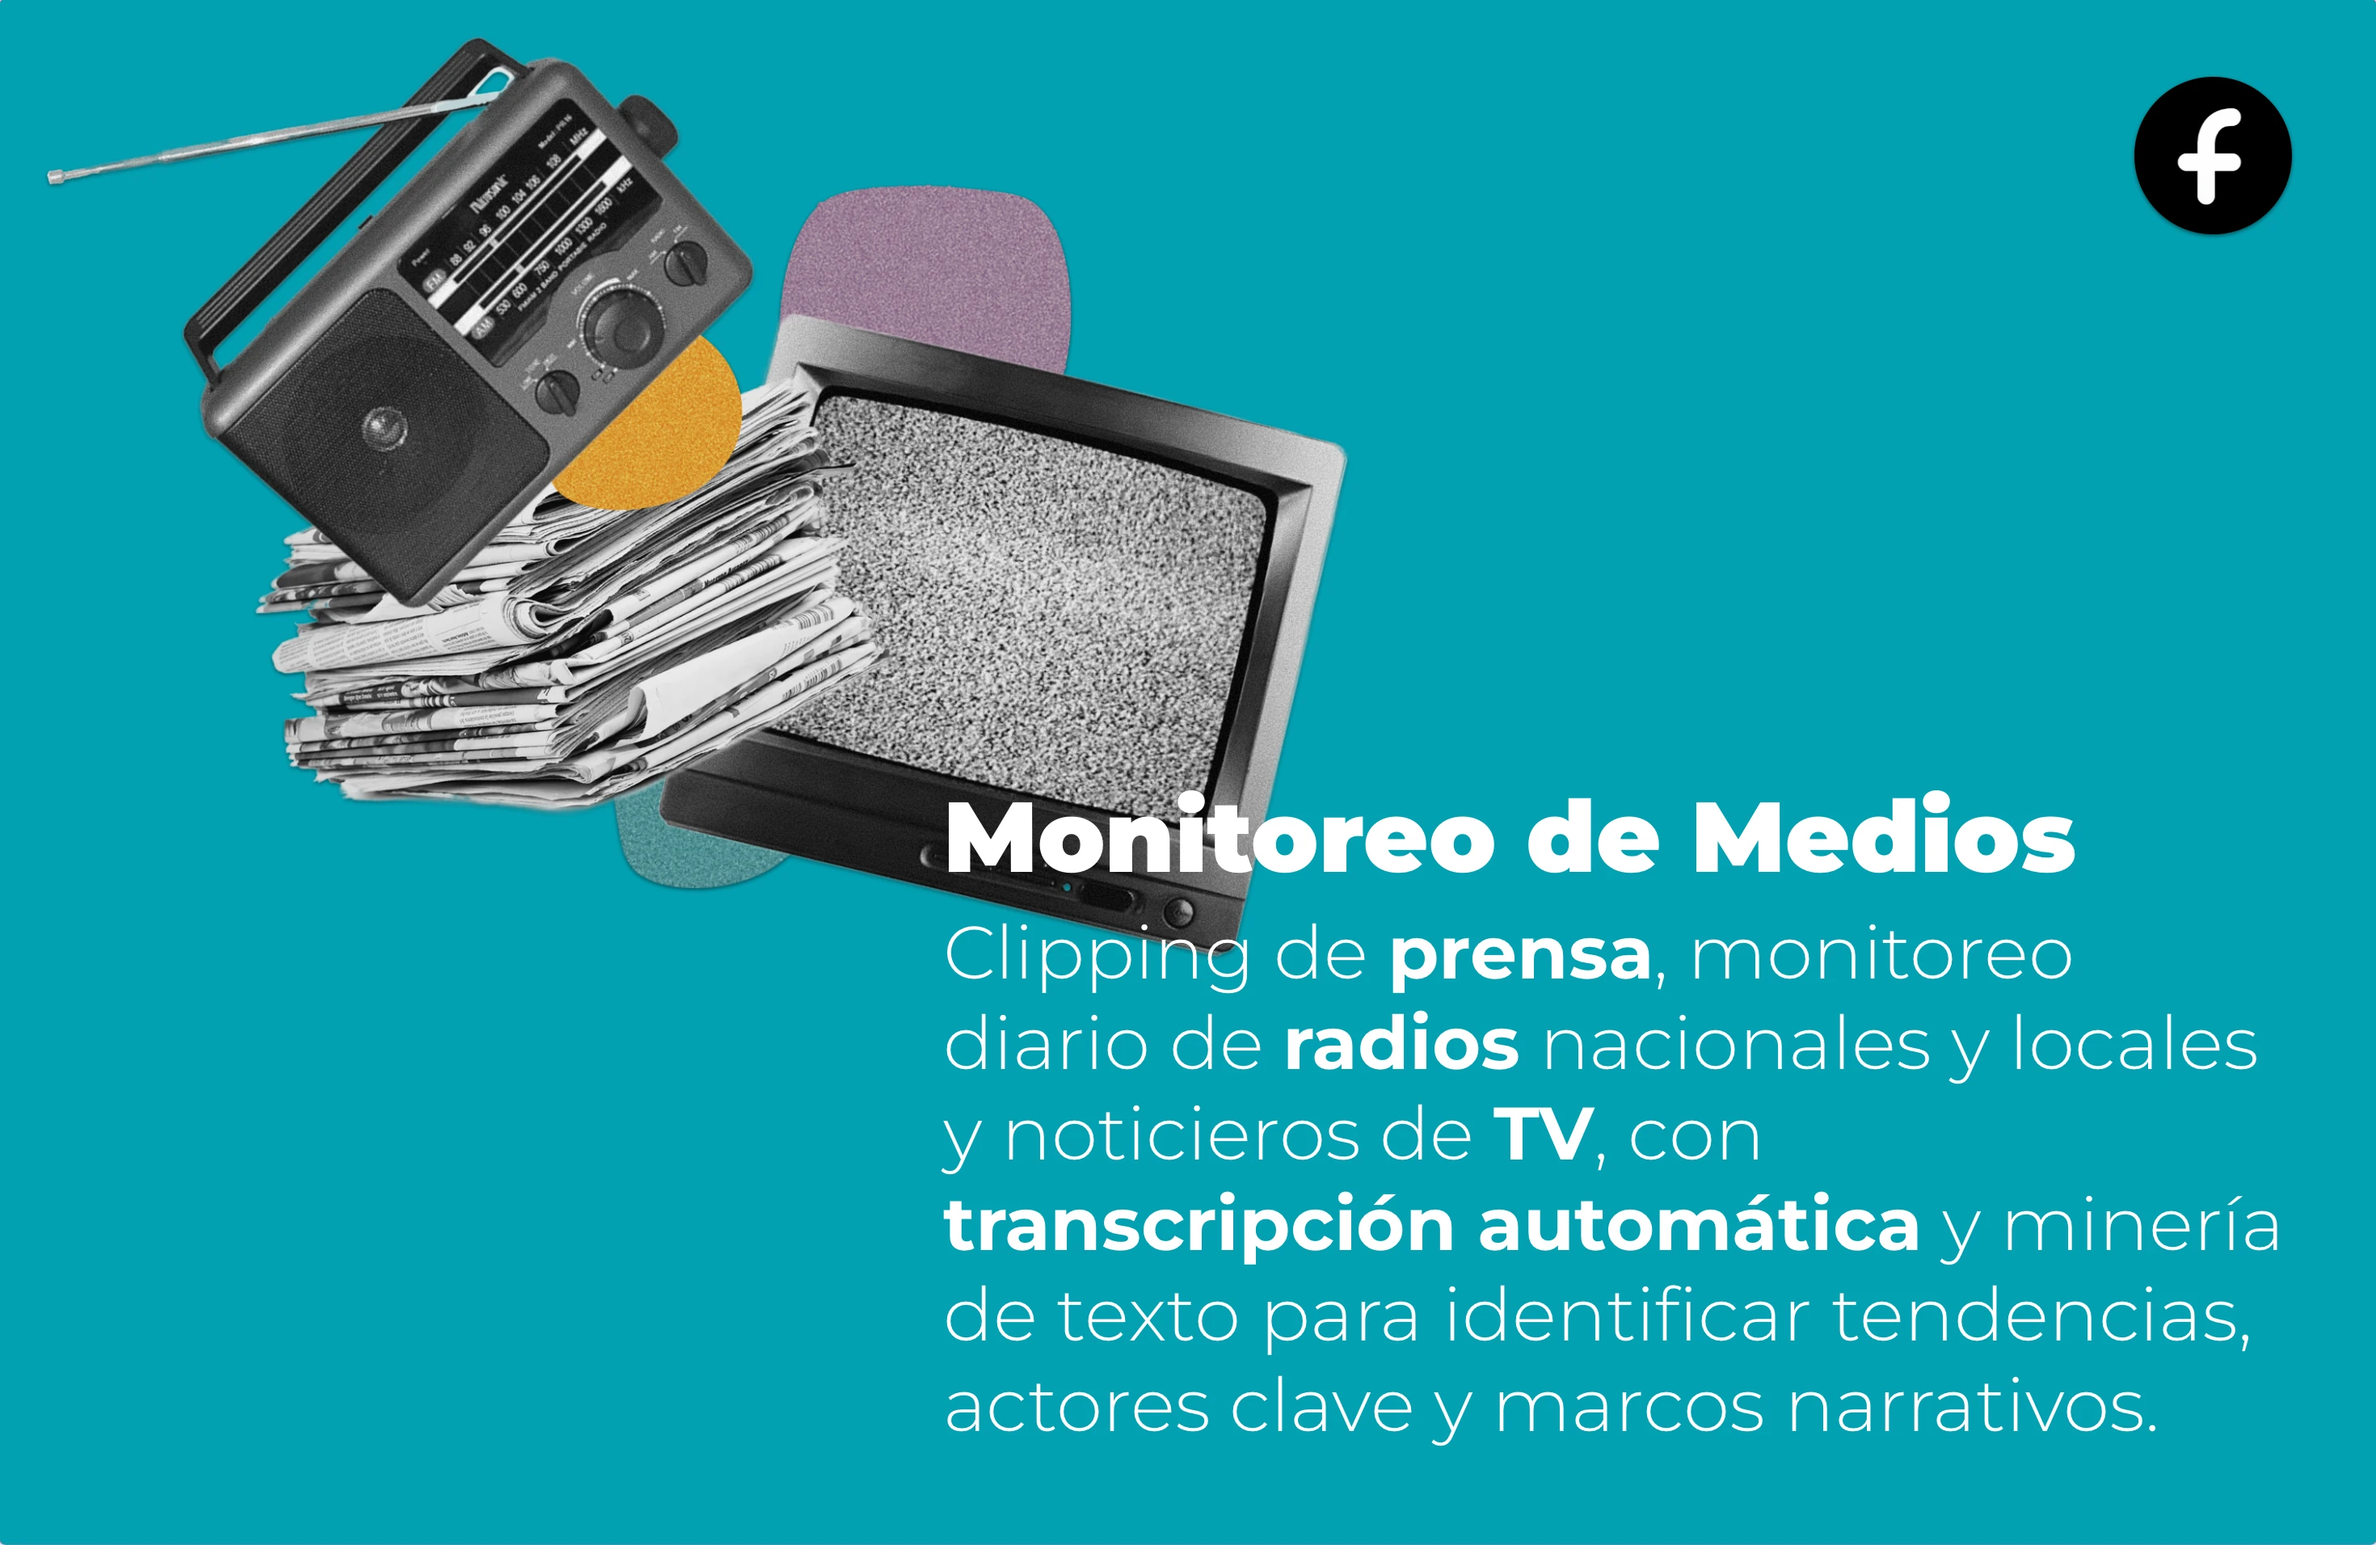
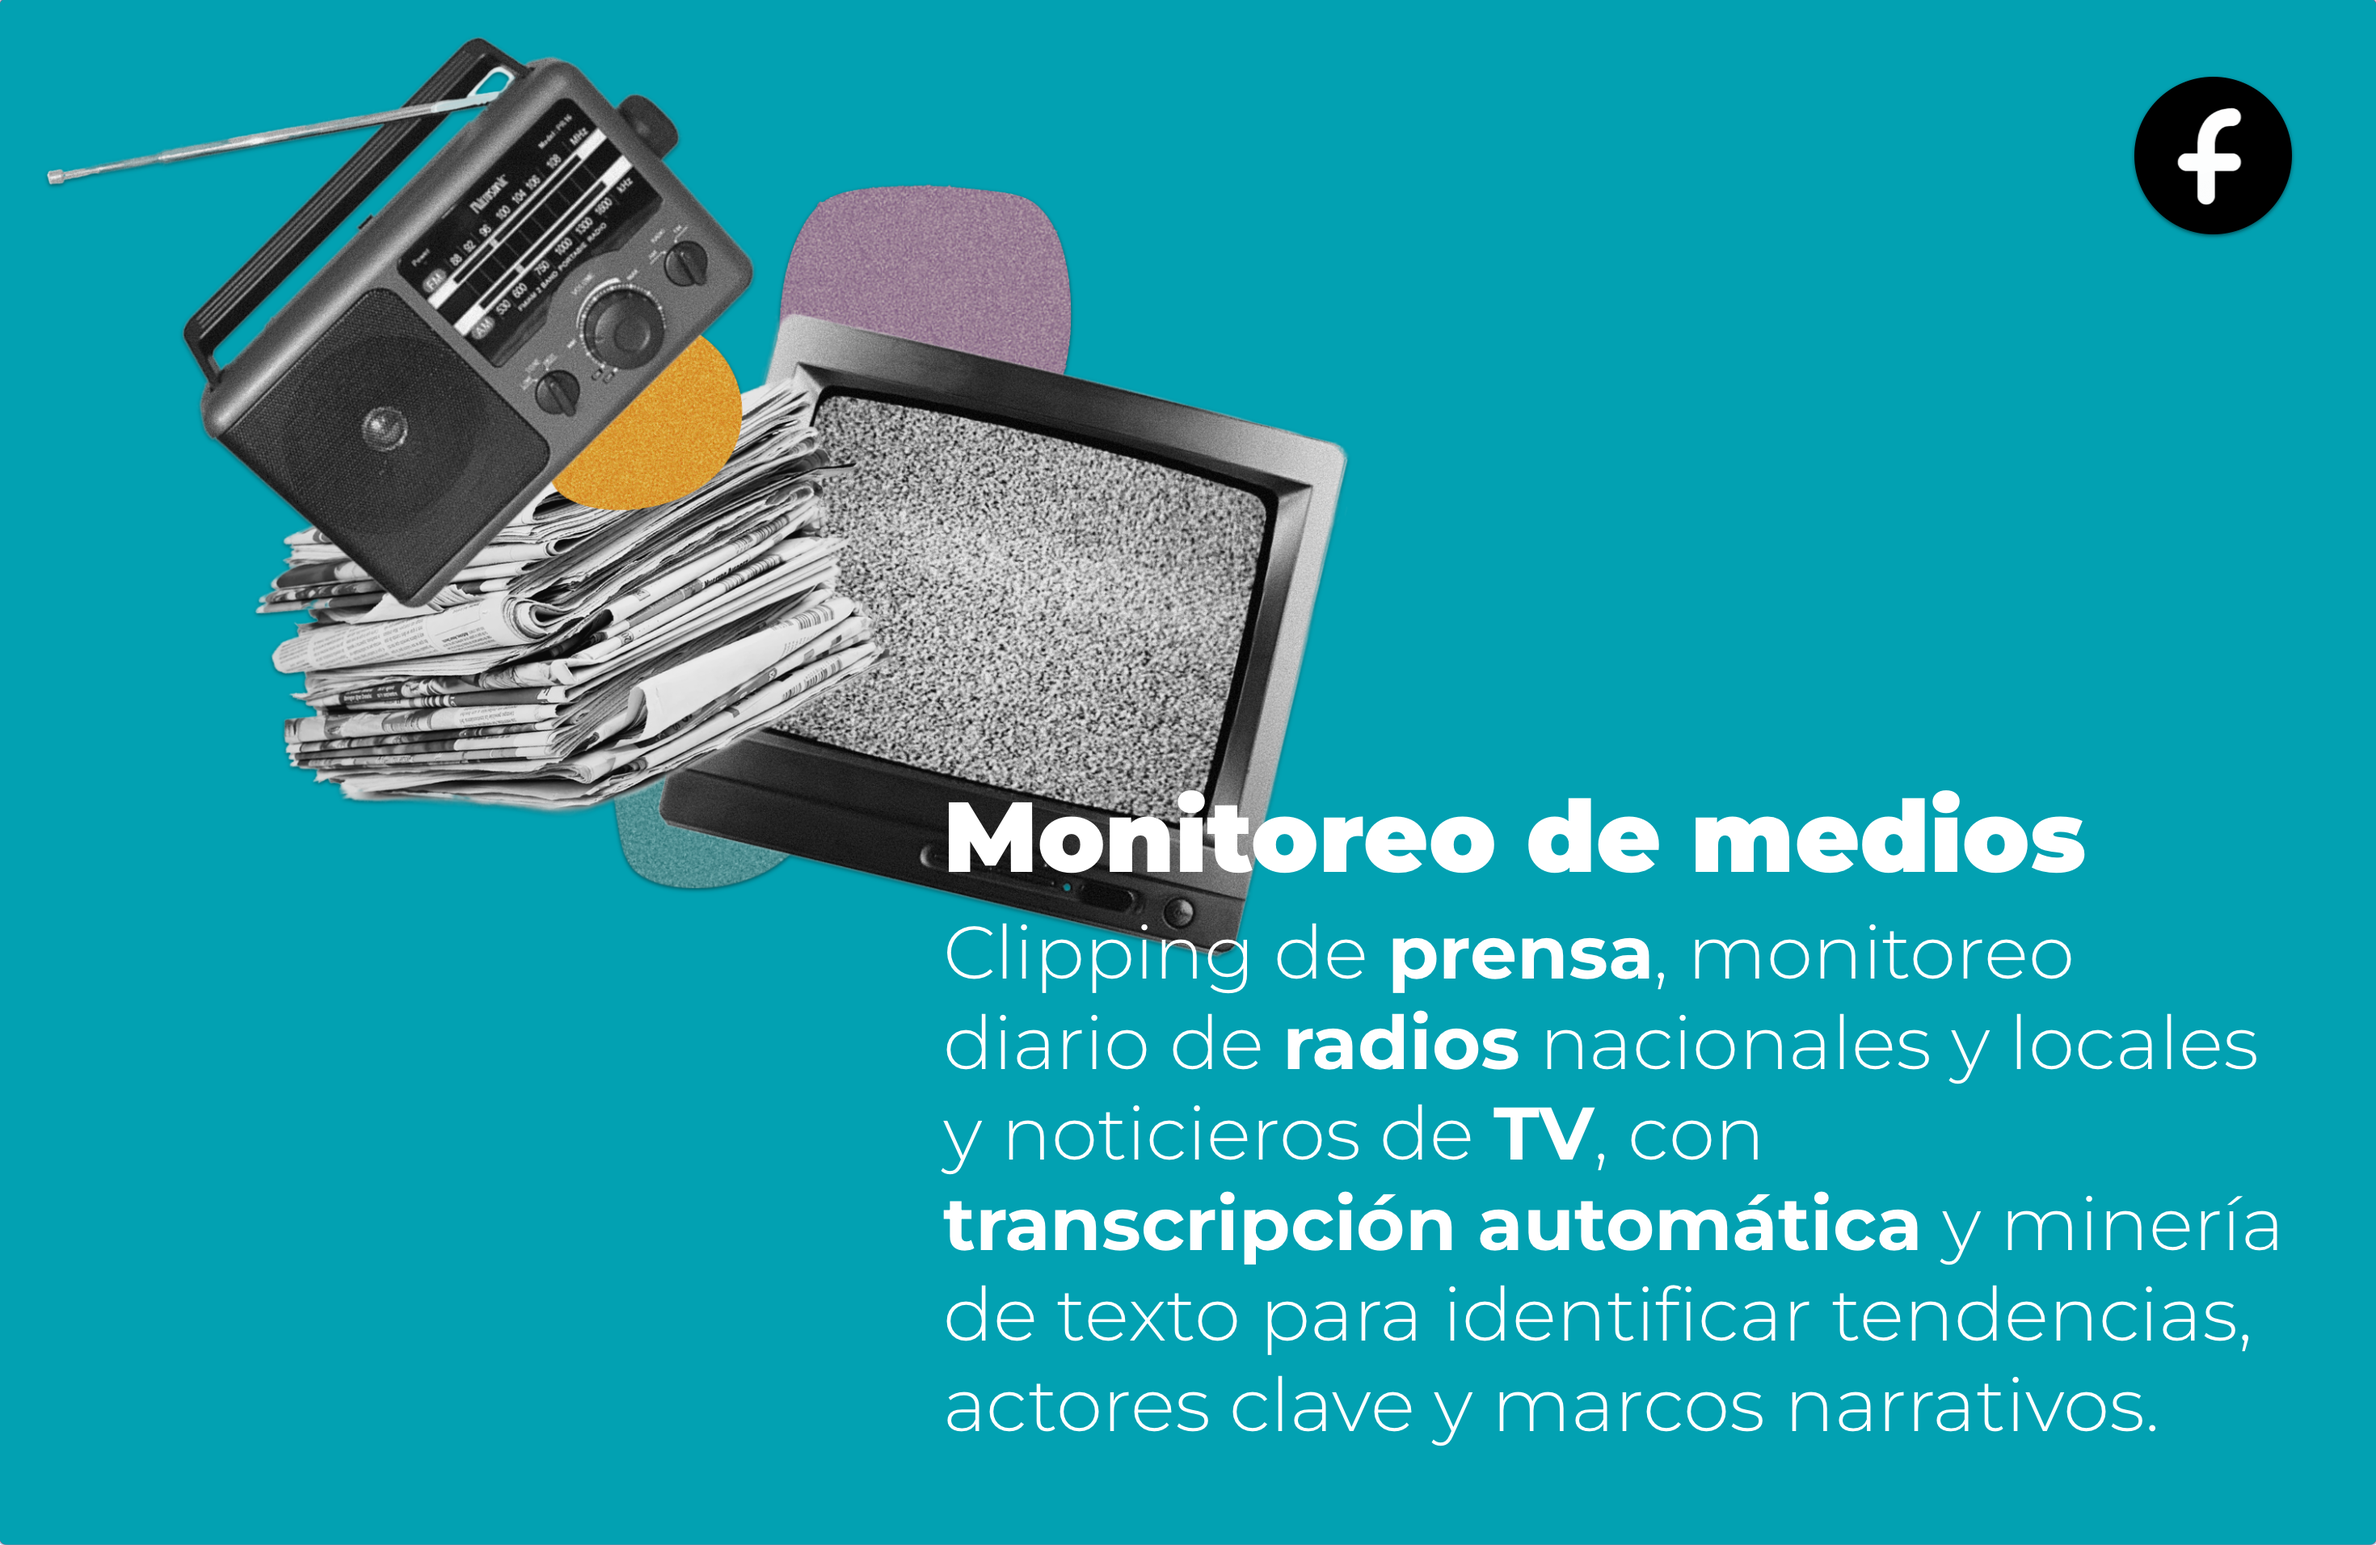
fix capitalization

Changed region(s): [[0.7119, 0.4937, 0.8976, 0.5863]]

diff --git a/layouts/pages/single.html b/layouts/pages/single.html
@@ -49,7 +49,7 @@
                   <ul class="space-y-2">
                     <li>
                       <a class="service-nav-link" href="#paneles-op">
-                        Paneles de Opinión Pública
+                        Paneles de opinión pública
                       </a>
                     </li>
                     <li>

diff --git a/content/english/pages/servicios.md b/content/english/pages/servicios.md
@@ -25,7 +25,7 @@ services_slider:
     class="service-image"
 >}}
 
-### Paneles de Opinión Pública {#paneles-op}
+### Paneles de opinión pública {#paneles-op}
 Mediante mensajería instantánea, como Whatsapp, recabamos las  percepciones de grupos poblacionales específicos, de forma ágil y directa, en tiempo real, con respuestas espontáneas (en formato texto y/o audio), lo que nos permite comprender  argumentos y opiniones clave sobre diferentes temáticas a lo largo del tiempo.
 Los grupos se definen en función de tus intereses. A diferencia de las encuestas tradicionales, este enfoque está orientado a explorar en profundidad a grupos claves, estratégicos o de interés particular para la toma de decisiones.
 El análisis de estas respuestas permite indagar con profundidad percepciones, representaciones sociales e imaginarios colectivos que los diferentes segmentos construyen en torno a determinados temas, actores o situaciones. 
@@ -58,7 +58,7 @@ En **FOCUS** nos encargamos de todas las etapas necesarias para implementar esta
     class="service-image"
 >}}
 
-### Informes de monitoreo de medios de comunicación tradicionales (Radio, prensa y televisión) {#monitoreo-medios}
+### Informes de monitoreo de medios de comunicación tradicionales (radio, prensa y televisión) {#monitoreo-medios}
 Nuestros informes de medios ofrecen una radiografía precisa y actualizada del clima informativo y la conversación pública en el país sobre un tema de interés para tu empresa u organización
 Estos informes se construyen a partir de un sistema de escucha de alta precisión, desarrollado por nuestros equipos, que monitorea diariamente radios nacionales, locales, noticieros centrales de televisión y streamings, transcribiendo su contenido en tiempo real.  A esto se suma la recuperación continua de prensa digital nacional y local. 
 A partir de esta base de datos robusta y en constante actualización, aplicamos técnicas de minería de texto y análisis de contenido, para identificar tendencias, temas emergentes, actores clave, climas de opinión y marcos narrativos predominantes. El resultado: un informe que te permite entender cómo se trata el tema de tu interés en los medios de comunicación nacionales y locales, cómo se configura el debate público en torno a dicho tema y hacia dónde se mueve la conversación social.
@@ -74,7 +74,7 @@ Una herramienta clave para medir el impacto de campañas comunicativas, evaluar 
     class="service-image"
 >}}
 
-### Informe de monitoreo de redes sociales {#monitoreo-redes}
+### Informes de monitoreo de redes sociales {#monitoreo-redes}
 Nuestros informes de monitoreo en redes sociales brindan un panorama detallado y actualizado sobre las conversaciones digitales en plataformas clave como X (Twitter), Instagram, Facebook, TikTok y YouTube.
 A través de herramientas especializadas de recolección (APIs y scrapeo web) y análisis de datos, identificamos temas emergentes, actores relevantes, tendencias discursivas, hashtags predominantes y dinámicas de viralización. Este monitoreo permite comprender cómo se posicionan determinadas temáticas, marcas o instituciones en el ecosistema digital, así como anticipar posibles escenarios para una comunicación estratégica.
 Integramos métricas cuantitativas (alcance, redes de interacción, frecuencia, crecimiento, engagement) con análisis cualitativos (narrativas, tono, polarización, discursos predominantes) para ofrecer un diagnóstico riguroso y contextualizado.

diff --git a/content/english/_index.md b/content/english/_index.md
@@ -12,7 +12,7 @@ banner:
 
 # Features
 features:
-  - title: "Paneles de Opinión Pública"
+  - title: "Paneles de opinión pública"
     image: "/images/paneles.png"
     content: "Recogemos percepciones espontáneas (texto y audio) de grupos poblacionales específicos en tiempo real a través de WhatsApp, permitiendo un análisis dinámico de argumentos y opiniones a lo largo del tiempo."
     bulletpoints:
@@ -24,7 +24,7 @@ features:
       label: "Más"
       link: "/servicios/#paneles-op"
 
-  - title: "Grupos Focales"
+  - title: "Grupos focales"
     image: "/images/gd.png"
     content: "Moderamos conversaciones guiadas con grupos reducidos que comparten características clave, revelando tensiones, matices y narrativas en torno a iniciativas, productos o políticas."
     bulletpoints:
@@ -36,7 +36,7 @@ features:
       label: "Más"
       link: "/servicios/#grupos-focales"
 
-  - title: "Monitoreo de Medios"
+  - title: "Monitoreo de medios"
     image: "/images/monitor.png"
     content: "Monitoreo diario de radios nacionales y locales, prensa digital y noticieros de TV, con transcripción automática y minería de texto para identificar tendencias, actores clave y marcos narrativos."
     bulletpoints:
@@ -48,7 +48,7 @@ features:
       label: "Más"
       link: "/servicios/#monitoreo-medios"
 
-  - title: "Monitoreo de Redes Sociales"
+  - title: "Monitoreo de redes sociales"
     image: "/images/redes.png"
     content: "Análisis de conversaciones en X, Instagram, Facebook, TikTok y YouTube mediante APIs y scraping, combinando métricas cuantitativas (alcance, engagement) y cualitativas (tono, polarización) para una visión completa."
     bulletpoints:
@@ -60,7 +60,7 @@ features:
       label: "Más"
       link: "/servicios/#monitoreo-redes"
 
-  - title: "Observatorio de Streamings"
+  - title: "Observatorio de streamings"
     image: "/images/streamings.png"
     content: "Reportes por hora, diario, semanal o mensual sobre performance de canales de YouTube en vivo en Uruguay, con métricas personalizables para comparar rendimientos y posicionamiento."
     bulletpoints:
@@ -72,7 +72,7 @@ features:
       label: "Más"
       link: "/servicios/#observatorio-streamings"
 
-  - title: "Tableros de Indicadores"
+  - title: "Tableros de indicadores"
     image: "/images/tableros.png"
     content: "Dashboards personalizados que integran datos numéricos, espaciales y textuales, ofreciendo visualizaciones claras y actualizadas para la toma de decisiones y difusión a públicos internos o externos."
     bulletpoints:
@@ -84,7 +84,7 @@ features:
       label: "Más"
       link: "/servicios/#tableros-indicadores"
 
-  - title: "Asesoramiento Metodológico"
+  - title: "Asesoramiento metodológico"
     image: "/images/asesoramiento.png"
     content: "Orientación en el diseño de estudios cualitativos y cuantitativos, adaptando métodos y estrategias de recolección para garantizar resultados precisos y relevantes."
     bulletpoints:
